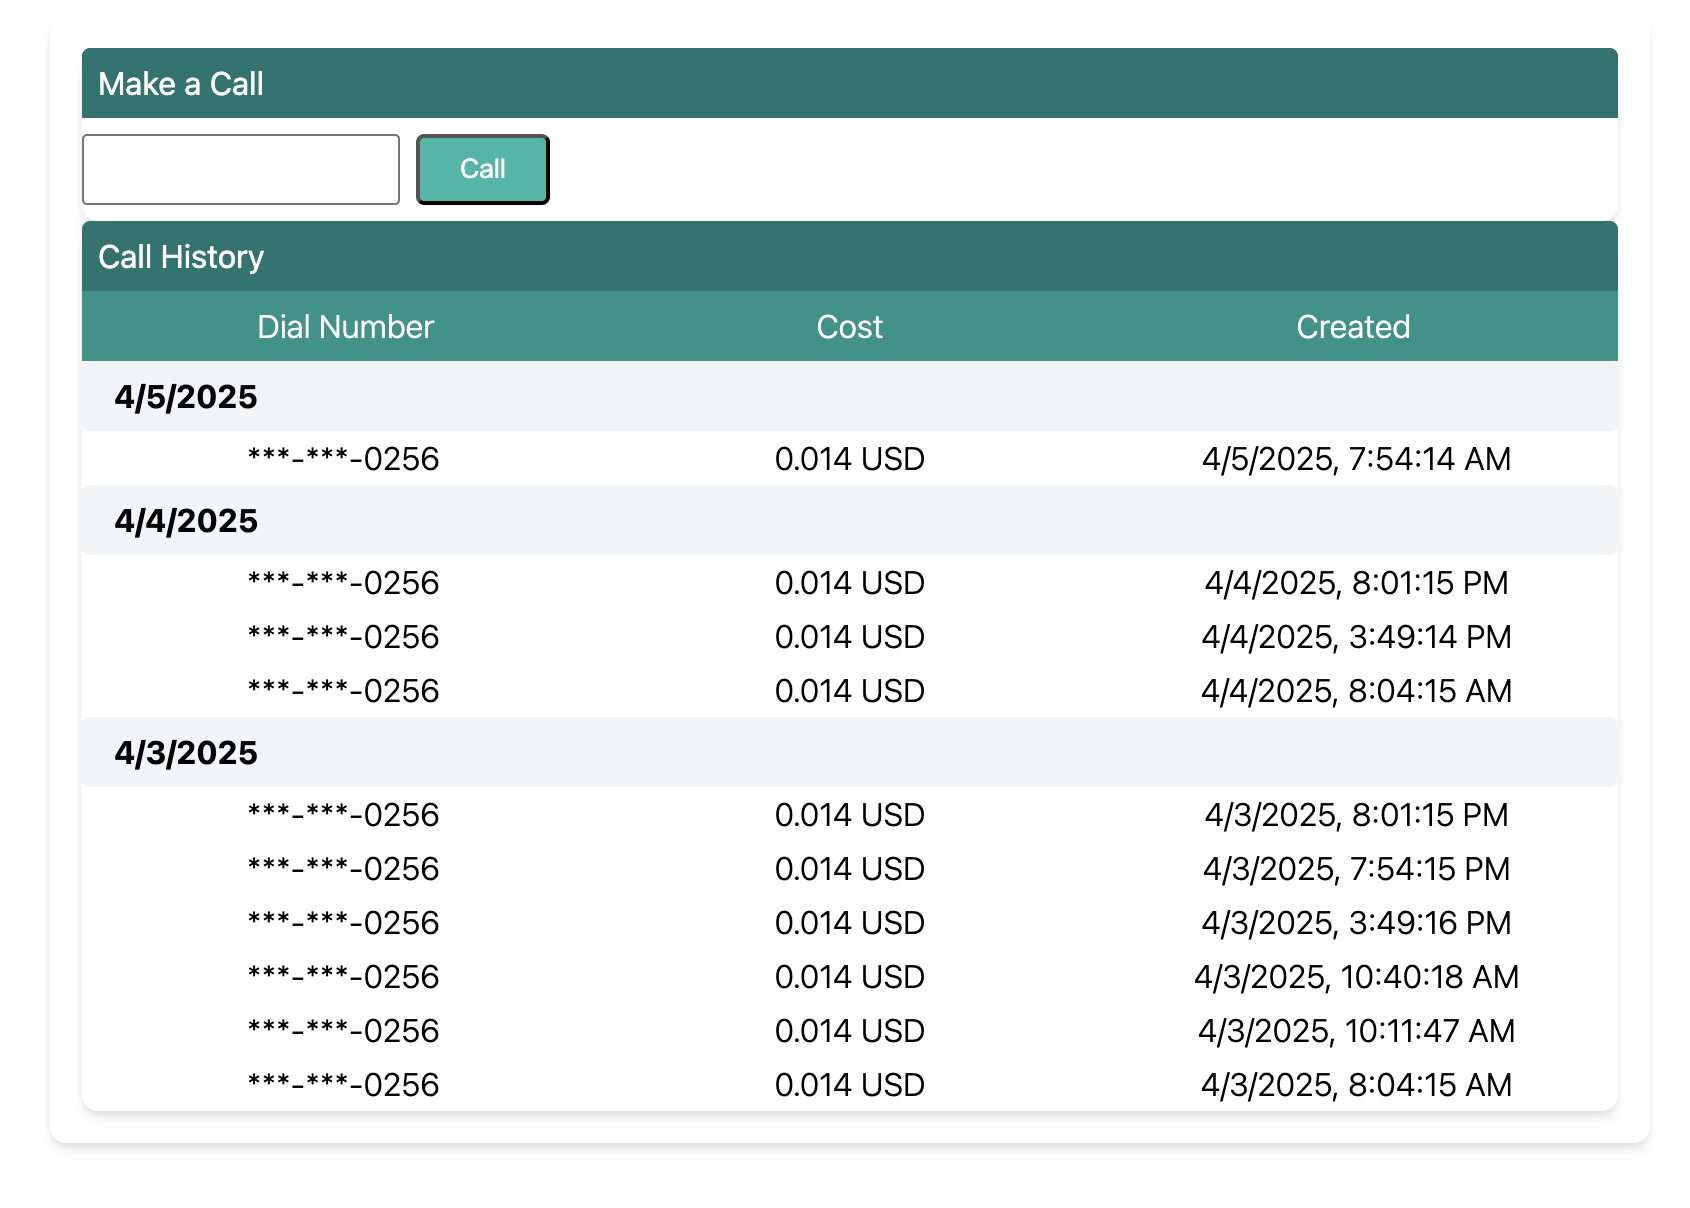
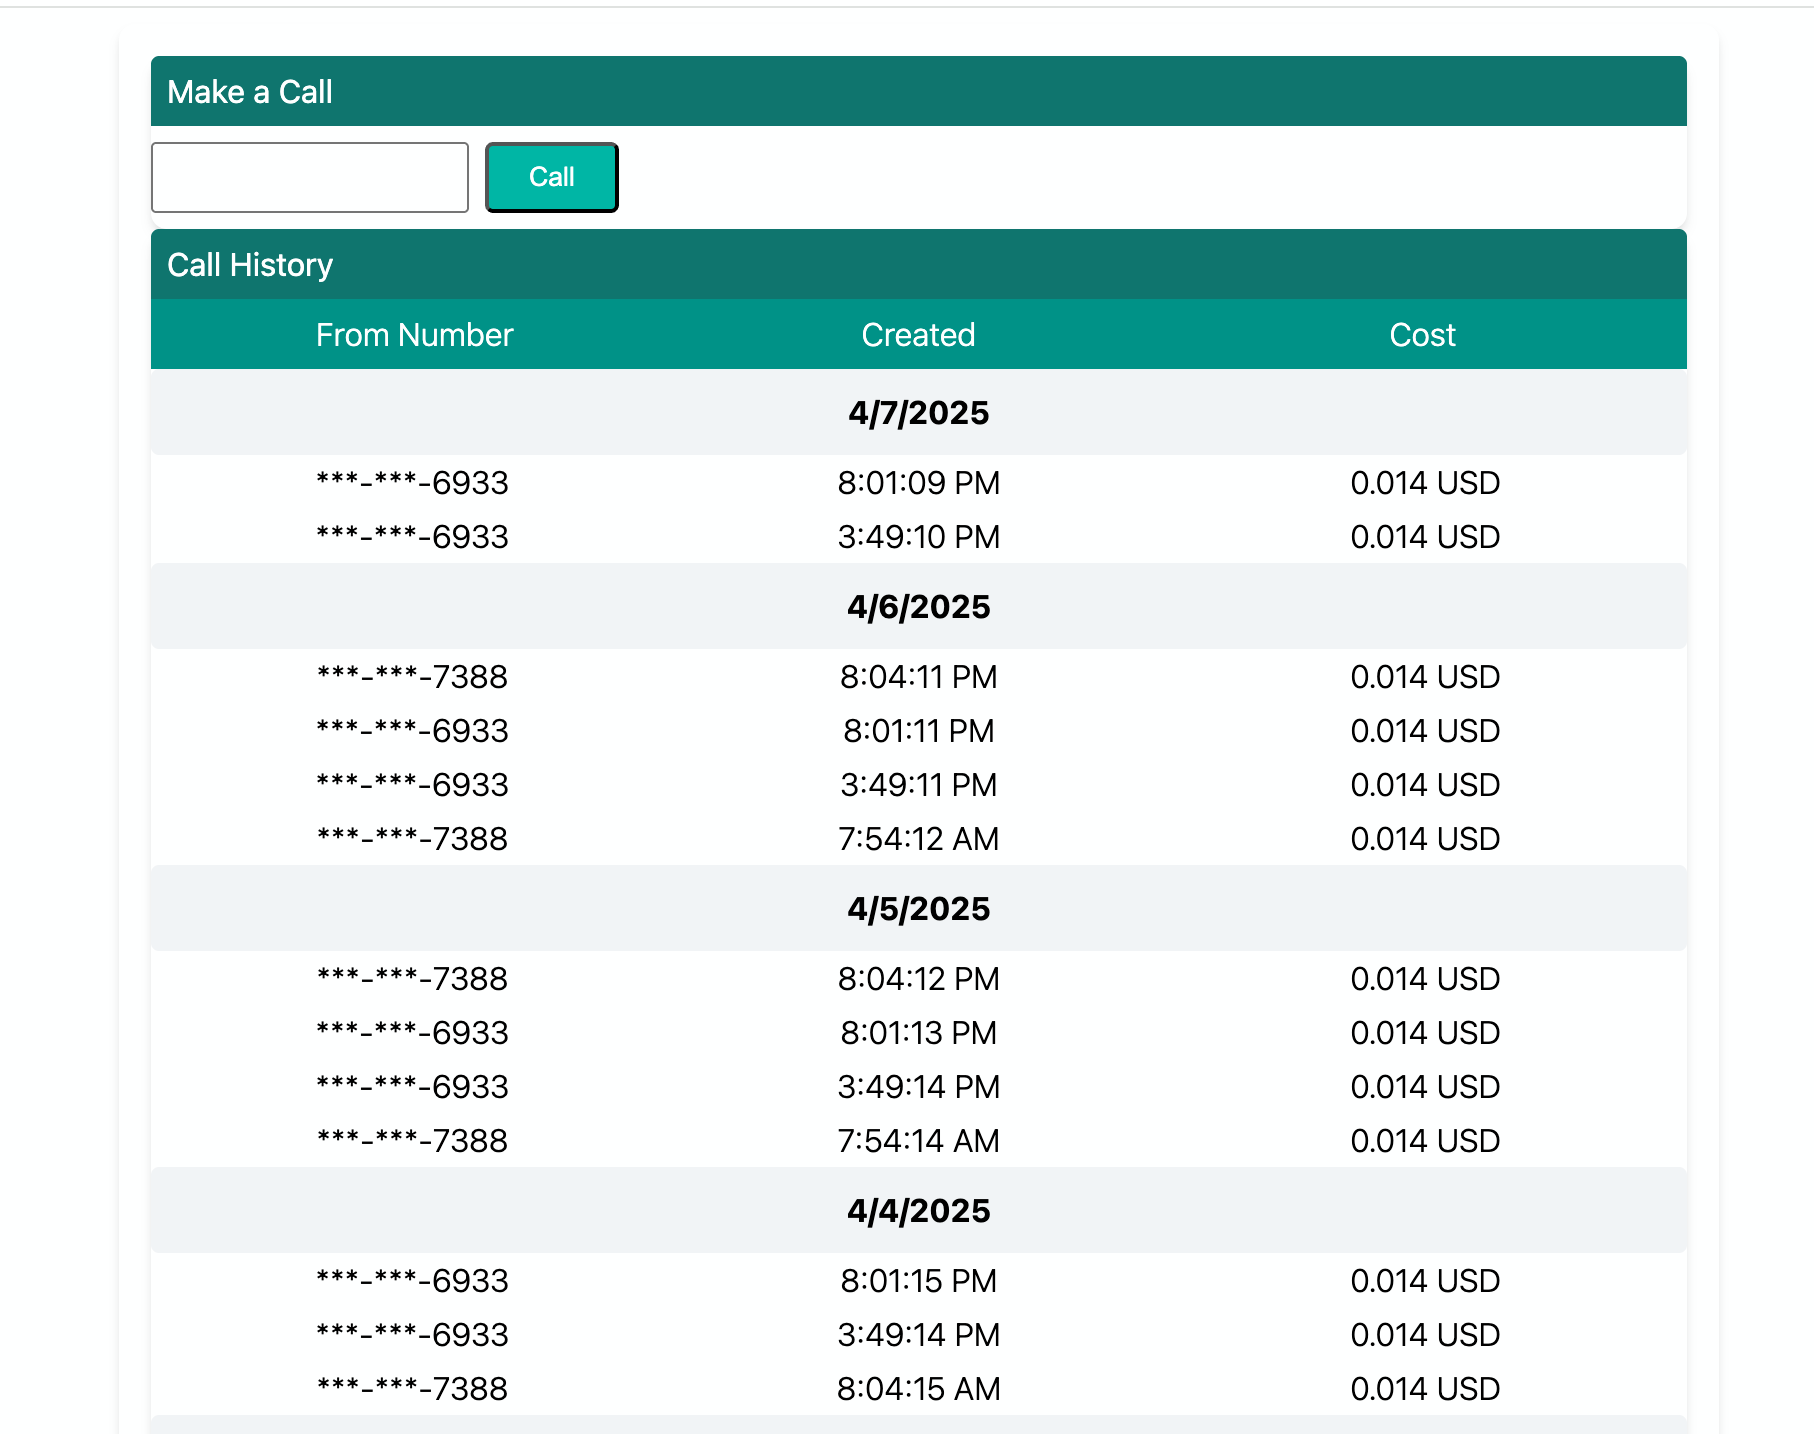
update readme

diff --git a/readme.md b/readme.md
@@ -1,12 +1,13 @@
 ### Twilio Playgound<img src="public/twilios.jpg" width="25px"></img>
 
 <img src="public/demo.png" width="400px"></img>
+<img src="public/fastify.png" width="400px"></img>
 
 #### Requirement
 
 Sign up for a twilio account and purchase a phone number.
 
-Then, Write your account credential to the .env file
+Then, add your account credential to the .env file
 
 ```
 TWILIO_ACCOUNT_SID=***YOUR ACCOUNT SID**
@@ -25,30 +26,39 @@ Run these command in the root directory
 
 ---
 
-- Features:
-  - UI (client)
-    - Make call
-    - Display call history grouped by date
+This application is still work-in-progress.
+But It serve the purpose of
+
+- testing integration with twilio api endpoint.
+- applying tailwind utility class to call history component
+- making asynchronous call to twilio api
+- integration with swagger UI to display documentation for API
+
+* Completed:
+  - Responsive UI (client)
+    - Option to make call to any number
+    - Display call history, grouped calls by date
   - Backend (sever)
-    - Use Swagger UI to document and test api endpoints
-    - Integrate twilio service
+    - Use Swagger UI to test api endpoints
     - Transform sensitive data (masking phone number)
-    - Transform call histories, grouped/keyed by date (YYYY-MM-DD), also update swagger schema
+    - Transform call histories, grouped/keyed by date (YYYY-MM-DD)
 
 ---
 
-- ToDo:
+- To Do:
   - Optimization
-    - Compress all js in production build, reduce bundle size with treeshaking, lazy load, memoization
+    - Compress all js in production build, reduce bundle size with vite configuration.
     - Use react profiler and lighthouse to identify performance bottlenecks
     - server side rendering SSR using Next.js
     - purge css in production build
   - UI
     - Add login and logout
     - For logged in user
-      - Add options (twilio xml templates) to automate key presses
-      - Add a page for user to create customize template
-      - Add a page to display recorded calls
-  - Backend
-    - Display templates list created by current user
-    - Add another endpoint to display recorded calls
+      - Frontend
+        - Add options (twilio xml templates) to automate key presses
+        - Add a page for user to create create call-instruction template
+        - Add a page to display recorded calls (mp4)
+        - Display templates created by current user
+      - Backend
+        - Add another endpoint to display recorded calls
+        - Setup database source, so we can store instructions we attached to Twilio call.
